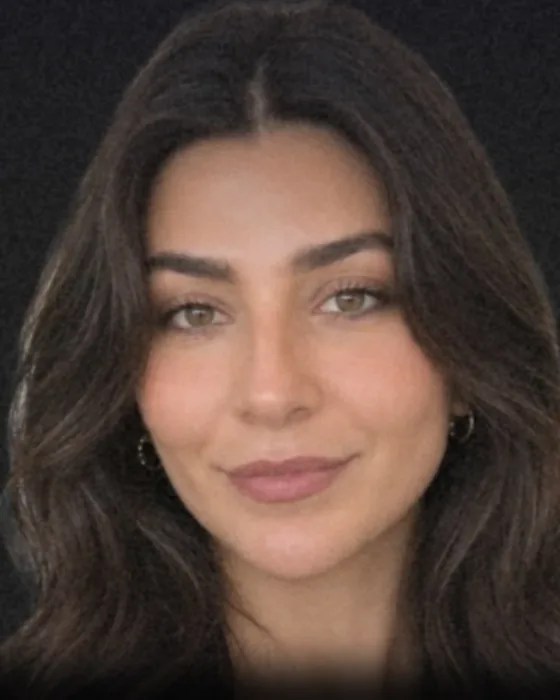
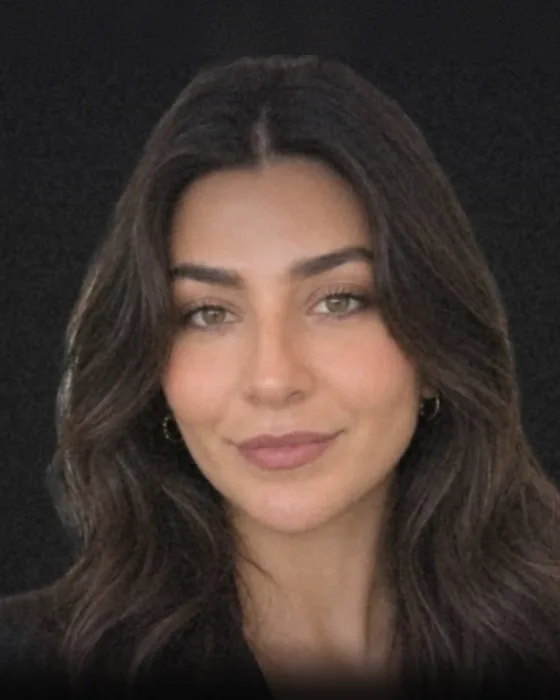
ASMBLY: zoom Melody's portrait out to match Robleh and Amir (#27)
Her LinkedIn photo is cropped tight at the top, so the background is
extended upward from the photo's own background grain, letting her
head sit at the same size and height as the other Builder's Playbook
panelists. Version the URL so caches refresh.

Claude-Session: https://claude.ai/code/session_015vvedEEUJEY2Xconp5SVWz

diff --git a/public/asmbly/index.html b/public/asmbly/index.html
@@ -904,7 +904,7 @@ document.addEventListener('click', (e) => {
       <article class="card card--revealed"><div class="card__img"><img decoding="async" src="/asmbly/img/sophie-hospes-s.webp?v=5" alt="Sophie Hospes" loading="lazy" /><div class="card__bio" aria-hidden="true"><span class="mono">About</span><p>Creative director based in Malmö. Through Studio Sophie Hospes and as Creative Director at New Limit Labs, she builds brand worlds across campaigns, product design and AI-powered creative systems.</p></div></div><div class="card__body"><div class="card__name">Sophie Hospes</div><div class="card__role mono">Speaker · The future of creative work</div><a class="card__ig mono" href="https://www.instagram.com/studiosophiehospes/" target="_blank" rel="noopener" aria-label="Sophie Hospes on Instagram">@studiosophiehospes ↗</a></div></article>
       <article class="card card--revealed"><div class="card__img"><img decoding="async" src="/asmbly/img/amir-mxt-s.webp?v=5" alt="Amir MXT" loading="lazy" /><div class="card__bio" aria-hidden="true"><span class="mono">About</span><p>Founder of Humblytics, the simple analytics and A/B testing platform for websites. A product builder focused on shipping fast with small teams and new tools.</p></div></div><div class="card__body"><div class="card__name">Amir MXT</div><div class="card__role mono">Panelist · The Builder's Playbook</div><a class="card__ig mono" href="https://x.com/amirmxt" target="_blank" rel="noopener" aria-label="Amir MXT: @amirmxt">@amirmxt ↗</a></div></article>
       <article class="card card--revealed"><div class="card__img"><img decoding="async" src="/asmbly/img/robleh-jama-s.webp?v=5" alt="Robleh Jama" loading="lazy" /><div class="card__bio" aria-hidden="true"><span class="mono">About</span><p>Toronto product builder and founder of Tomorrow. A Shopify alum, he co-founded Boom, the camera app for video calls, and founded the app studio Tiny Hearts.</p></div></div><div class="card__body"><div class="card__name">Robleh Jama</div><div class="card__role mono">Panelist · The Builder's Playbook</div><a class="card__ig mono" href="https://x.com/robjama" target="_blank" rel="noopener" aria-label="Robleh Jama: @robjama">@robjama ↗</a></div></article>
-      <article class="card card--revealed"><div class="card__img"><img decoding="async" src="/asmbly/img/melody-razavitoussi-s.webp?v=6" alt="Melody Razavitoussi" loading="lazy" /><div class="card__bio" aria-hidden="true"><span class="mono">About</span><p>Director of Strategy and Innovation at Deloitte Canada, where she has led product and incubated new ventures. She started building products at Xperigo in high school and is a regular voice in Toronto tech.</p></div></div><div class="card__body"><div class="card__name">Melody Razavitoussi</div><div class="card__role mono">Panelist · Deloitte Strategy &amp; Innovation</div><a class="card__ig mono" href="https://www.linkedin.com/in/melodyrazavitoussi/" target="_blank" rel="noopener" aria-label="Melody Razavitoussi on LinkedIn">linkedin ↗</a></div></article>
+      <article class="card card--revealed"><div class="card__img"><img decoding="async" src="/asmbly/img/melody-razavitoussi-s.webp?v=7" alt="Melody Razavitoussi" loading="lazy" /><div class="card__bio" aria-hidden="true"><span class="mono">About</span><p>Director of Strategy and Innovation at Deloitte Canada, where she has led product and incubated new ventures. She started building products at Xperigo in high school and is a regular voice in Toronto tech.</p></div></div><div class="card__body"><div class="card__name">Melody Razavitoussi</div><div class="card__role mono">Panelist · Deloitte Strategy &amp; Innovation</div><a class="card__ig mono" href="https://www.linkedin.com/in/melodyrazavitoussi/" target="_blank" rel="noopener" aria-label="Melody Razavitoussi on LinkedIn">linkedin ↗</a></div></article>
       <article class="card card--revealed"><div class="card__img"><img decoding="async" src="/asmbly/img/meg-button-s.webp?v=5" alt="Meg Button" loading="lazy" /><div class="card__bio" aria-hidden="true"><span class="mono">About</span><p>Co-founder and creative director of Fantastic Day, an AI-native media studio. She leads Machine Cinema Women and has produced AI work for History Channel and A&amp;E after nearly two decades in advertising.</p></div></div><div class="card__body"><div class="card__name">Meg Button</div><div class="card__role mono">Moderator · Machine Cinema · Fantastic Day</div><a class="card__ig mono" href="https://www.fantastic.day/" target="_blank" rel="noopener" aria-label="Meg Button: fantastic.day">fantastic.day ↗</a></div></article>
       <article class="card card--revealed"><div class="card__img"><img decoding="async" src="/asmbly/img/wilfred-lee-s.webp?v=5" alt="Wilfred Lee" loading="lazy" /><div class="card__bio" aria-hidden="true"><span class="mono">About</span><p>Toronto AI filmmaker, worldbuilder and educator. Founder of Artist's Journey and GenTO, he brings storytelling, generative tools and community together into finished work.</p></div></div><div class="card__body"><div class="card__name">Wilfred Lee</div><div class="card__role mono">Panelist · The future of entertainment</div><a class="card__ig mono" href="https://www.instagram.com/theartistsjourney/" target="_blank" rel="noopener" aria-label="Wilfred Lee on Instagram">@theartistsjourney ↗</a></div></article>
       <article class="card card--revealed"><div class="card__img"><img decoding="async" src="/asmbly/img/j-lee-williams-s.webp?v=5" alt="J. Lee Williams" loading="lazy" /><div class="card__bio" aria-hidden="true"><span class="mono">About</span><p>Award-winning film, immersive and commercial director, and a VFX supervisor since 2010. Founder of Invalid Symbol; his interactive direction on Survivorman VR helped it win a 2024 Canadian Screen Award.</p></div></div><div class="card__body"><div class="card__name">J. Lee Williams</div><div class="card__role mono">Panelist · Invisible VFX</div><a class="card__ig mono" href="https://www.instagram.com/jlee_williams/" target="_blank" rel="noopener" aria-label="J. Lee Williams: @jlee_williams">@jlee_williams ↗</a></div></article>
